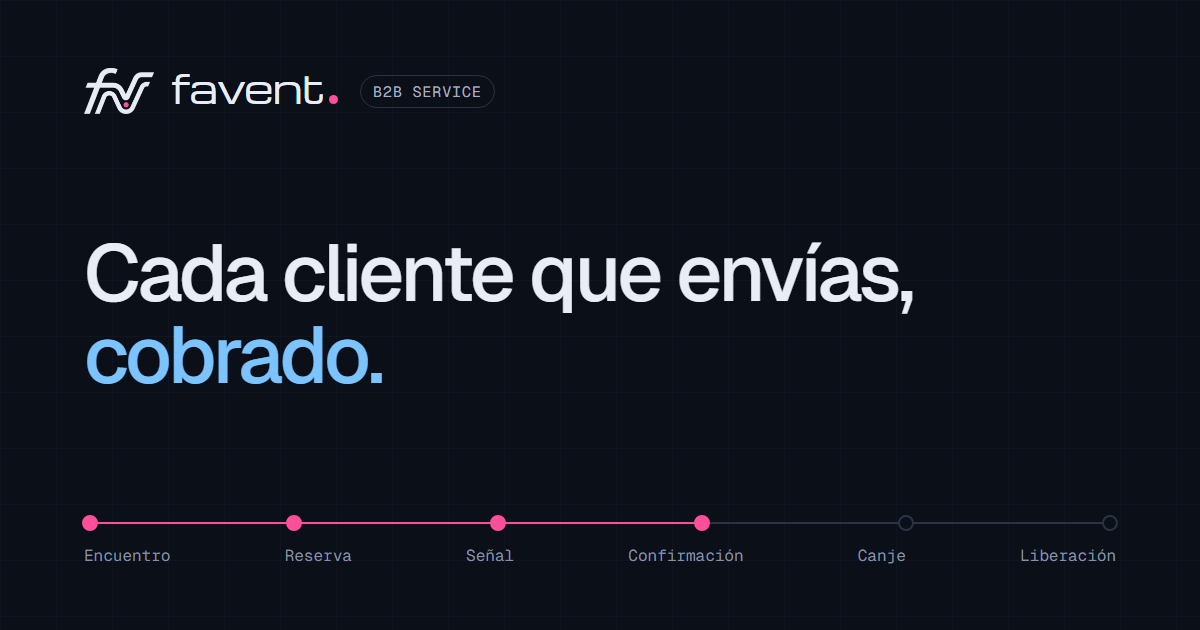
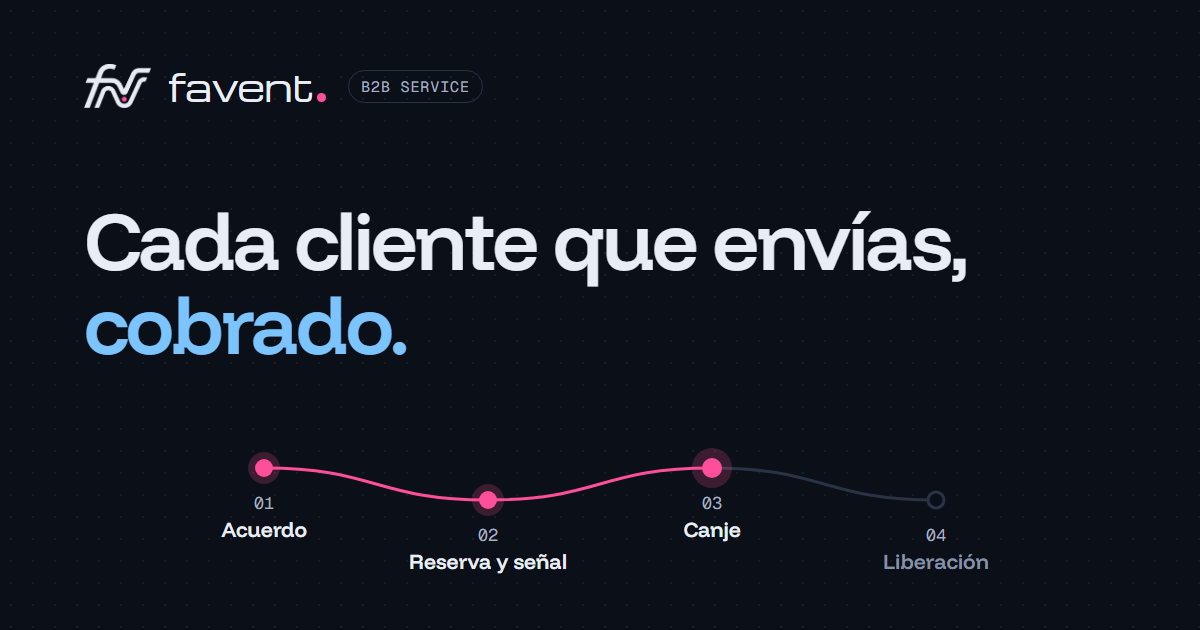
Informes con más gráficos, imagen social de 4 pasos y ajustes en móvil
- Informes (los dos perfiles): reservas por mes, estado de las reservas,
  embudo, comisión por persona y por empresa; ocupación por día,
  ingresos y comisiones, canjes y no-shows, del perfil a la reserva
- Imagen social con los 4 pasos y la curva rosa (?v=3)
- Móvil: email y «Solicitar acceso» en burbujas separadas; las cifras
  del panel caben en su recuadro
- DESIGN.md actualizado

diff --git a/index.html b/index.html
@@ -13,14 +13,14 @@
 <meta property="og:url" content="https://www.favent.app/">
 <meta property="og:title" content="Favent — Canal de ventas profesional entre empresas · Mallorca">
 <meta property="og:description" content="Cada cliente que envías, cobrado. Comisión pactada, reserva pagada por adelantado y liberación automática al prestar el servicio. Piloto abierto en Mallorca.">
-<meta property="og:image" content="https://www.favent.app/img/og-image.png?v=2">
+<meta property="og:image" content="https://www.favent.app/img/og-image.png?v=3">
 <meta property="og:image:width" content="1200">
 <meta property="og:image:height" content="630">
 <meta property="og:image:alt" content="favent · B2B SERVICE — Cada cliente que envías, cobrado.">
 <meta name="twitter:card" content="summary_large_image">
 <meta name="twitter:title" content="Favent — Canal de ventas profesional entre empresas · Mallorca">
 <meta name="twitter:description" content="Cada cliente que envías, cobrado. Comisión pactada, reserva pagada por adelantado y liberación automática al prestar el servicio.">
-<meta name="twitter:image" content="https://www.favent.app/img/og-image.png?v=2">
+<meta name="twitter:image" content="https://www.favent.app/img/og-image.png?v=3">
 <link rel="icon" type="image/png" sizes="32x32" href="img/favicon-32.png?v=2">
 <link rel="icon" type="image/png" sizes="192x192" href="img/icon-192.png?v=2">
 <link rel="apple-touch-icon" href="img/apple-touch-icon.png?v=2">
@@ -568,6 +568,42 @@ html:not(.cine) .motion-btn{display:none}
 .fx-mapbox .fx-pop .pp-d{display:none}
 @media (max-width: 860px){.fx-mapgrid{grid-template-columns:1fr}.fx-maplist{display:none}.fx-mapv{padding:12px 14px 14px}}
 @media (max-width: 520px){.fx-mapbox .pin-pop.fx-pop{width:180px !important}.fx-mapbox .fx-pop .pp-ph{height:70px}}
+/* Móvil: el campo de email y el botón van en burbujas separadas */
+@media (max-width: 640px){
+  .neu-field{padding:0;border:0;border-radius:0;background:transparent !important;box-shadow:none;gap:10px}
+  .neu-field input{border:1px solid #5A657E !important;background:var(--bg) !important;box-shadow:inset 3px 3px 8px var(--neu-lo),inset -3px -3px 8px var(--neu-hi)}
+}
+/* Móvil: las cifras del panel caben siempre en su recuadro */
+@media (max-width: 520px){
+  .fx-kpis{grid-template-columns:repeat(2,minmax(0,1fr)) !important}
+  .fx-kpi{padding:10px 12px;min-width:0}
+  .fx-kpi b{font-size:15px;overflow-wrap:anywhere}
+}
+/* Informes: más gráficos */
+.fx-rep2{display:grid;grid-template-columns:repeat(3,minmax(0,1fr));gap:12px;padding:0 18px 12px}
+.fx-rep3{display:grid;grid-template-columns:repeat(2,minmax(0,1fr));gap:12px;padding:0 18px 18px}
+.rep-line{width:100%;height:auto;display:block}
+.rep-axis{display:flex;justify-content:space-between;font:11px 'Geist Mono',monospace;color:#656B71}
+.rep-donut{display:flex;align-items:center;gap:14px}
+.rep-donut svg{width:108px;height:108px;flex-shrink:0}
+.rep-dc{font:600 17px 'Funnel Display',sans-serif;fill:#1E2226}
+.rep-ds{font:500 9px 'Geist Mono',monospace;fill:#656B71}
+.rep-donut ul{list-style:none;margin:0;padding:0;display:flex;flex-direction:column;gap:6px;font-size:12px;min-width:0;flex:1}
+.rep-donut li{display:flex;align-items:center;gap:7px}
+.rep-donut li i{width:9px;height:9px;border-radius:3px;flex-shrink:0}
+.rep-donut li b{margin-left:auto;padding-left:6px;flex-shrink:0;white-space:nowrap;font:500 11px 'Geist Mono',monospace}
+.rep-funnel{display:flex;flex-direction:column;gap:9px}
+.rep-funnel div{display:grid;grid-template-columns:112px minmax(0,1fr) 46px;gap:8px;align-items:center;font-size:12px}
+.rep-funnel s{display:block;height:14px;border-radius:5px;background:#F0F1ED;overflow:hidden;text-decoration:none}
+.rep-funnel s i{display:block;height:100%;border-radius:5px;transition:width .6s cubic-bezier(.2,.7,.2,1)}
+.rep-funnel em{font:500 11px 'Geist Mono',monospace;font-style:normal;text-align:right}
+.rep-cols{display:flex;align-items:flex-end;gap:8px;height:132px}
+.rep-cols div{flex:1;min-width:0;height:100%;display:flex;flex-direction:column;justify-content:flex-end;align-items:center;gap:4px}
+.rep-cols i{display:block;width:100%;max-width:26px;border-radius:6px 6px 3px 3px;background:#2B6CA8;transition:height .45s cubic-bezier(.2,.7,.2,1)}
+.rep-cols em{font:500 10px 'Geist Mono',monospace;font-style:normal;color:#656B71}
+.rep-cols span{font:500 11px 'Geist Mono',monospace;color:#50565C}
+@media (max-width: 860px){.fx-rep2,.fx-rep3{grid-template-columns:1fr;padding:0 14px 12px}}
+@media (max-width: 520px){.rep-funnel div,.fx-rep3 .fx-hb div{grid-template-columns:92px minmax(0,1fr) 66px !important}}
 /* ===== Entrada del inicio ===== */
 .cine .intro > *{animation:rise 800ms var(--ease-out) both;animation-delay:calc(var(--i, 0) * 70ms + 120ms)}
 .cine .intro > h1{animation:none}
@@ -1113,6 +1149,24 @@ body::after{content:"";position:fixed;inset:0;z-index:95;pointer-events:none;opa
     'Tú': 'You',
     'Proponer acuerdo': 'Propose agreement',
     'Así se mueve una reserva.': 'How a booking moves.',
+    'Comisiones': 'Commissions',
+    'Reservas por mes': 'Bookings per month',
+    'Estado de las reservas': 'Booking status',
+    'Embudo de reserva': 'Booking funnel',
+    'Enlaces enviados': 'Links sent',
+    'Pagadas': 'Paid',
+    'Canjeadas': 'Redeemed',
+    'Liberadas': 'Released',
+    'Comisión por persona': 'Commission per person',
+    'Comisión por empresa': 'Commission per business',
+    'Ocupación por día': 'Occupancy by day',
+    'Ingresos y comisiones': 'Revenue and commissions',
+    'ventas': 'sales',
+    'Canjes y no-shows': 'Redemptions and no-shows',
+    'Canceladas': 'Cancelled',
+    'No-shows': 'No-shows',
+    'canjeadas': 'redeemed',
+    'Del perfil a la reserva': 'From profile to booking',
     'Ajustes': 'Settings',
     'Cuenta': 'Account',
     'Tu resumen: comisiones y últimas reservas.': 'Your overview: commissions and latest bookings.',
@@ -1864,6 +1918,47 @@ body::after{content:"";position:fixed;inset:0;z-index:95;pointer-events:none;opa
     }).join('');
     return '<div class="fx-bar"><span class="fx-title">' + T('Acuerdos') + '</span><span style="font-size: 13px; color: #656B71">' + FXA.length + ' ' + (S.lang === 'en' ? 'partners' : 'socios') + '</span></div>' + head + rows;
   }
+  // Gráficos de los informes (datos de ejemplo): línea, dónut, embudo y barras
+  function repLine(vals, start) {
+    var W = 300, H = 120, P = 8, max = Math.max.apply(null, vals), n = vals.length;
+    var pts = vals.map(function (v, i) { return [P + i * (W - 2 * P) / Math.max(1, n - 1), H - P - (v / max) * (H - 2 * P - 10)]; });
+    var line = pts.map(function (q, i) { return (i ? 'L' : 'M') + q[0].toFixed(1) + ' ' + q[1].toFixed(1); }).join(' ');
+    var area = line + ' L' + pts[n - 1][0].toFixed(1) + ' ' + (H - P) + ' L' + pts[0][0].toFixed(1) + ' ' + (H - P) + ' Z';
+    var last = pts[n - 1];
+    return '<svg class="rep-line" viewBox="0 0 ' + W + ' ' + H + '" role="img" aria-label="' + vals.join(', ') + '"><path d="' + area + '" fill="#EAF2F8"></path><path d="' + line + '" fill="none" stroke="#2B6CA8" stroke-width="2.2" stroke-linejoin="round"></path>'
+      + '<circle cx="' + last[0].toFixed(1) + '" cy="' + last[1].toFixed(1) + '" r="4" fill="#2B6CA8"></circle></svg>'
+      + '<div class="rep-axis"><span>' + fxMon(start) + '</span><span>' + fxMon(start + n - 1) + '</span></div>';
+  }
+  function repDonut(segs, center, sub) {
+    var tot = segs.reduce(function (a, s) { return a + s[1]; }, 0), C = 2 * Math.PI * 38, acc = 0, en = S.lang === 'en';
+    var arcs = segs.map(function (s) {
+      var len = s[1] / tot * C, o = '<circle r="38" cx="50" cy="50" fill="none" stroke="' + s[2] + '" stroke-width="14" stroke-dasharray="' + len.toFixed(2) + ' ' + (C - len).toFixed(2) + '" stroke-dashoffset="' + (-acc).toFixed(2) + '" transform="rotate(-90 50 50)"></circle>';
+      acc += len; return o;
+    }).join('');
+    var leg = segs.map(function (s) { return '<li><i style="background: ' + s[2] + '"></i>' + s[0] + '<b>' + Math.round(s[1] / tot * 100) + (en ? '%' : ' %') + '</b></li>'; }).join('');
+    return '<div class="rep-donut"><svg viewBox="0 0 100 100" aria-hidden="true">' + arcs + '<text x="50" y="49" text-anchor="middle" class="rep-dc">' + center + '</text><text x="50" y="62" text-anchor="middle" class="rep-ds">' + sub + '</text></svg><ul>' + leg + '</ul></div>';
+  }
+  function repFunnel(steps) {
+    var top = steps[0][1];
+    return '<div class="rep-funnel">' + steps.map(function (s, i) {
+      var w = Math.round(s[1] / top * 100);
+      return '<div><span>' + s[0] + '</span><s><i data-w="' + w + '" style="width: ' + (FX.grow ? 0 : w) + '%; background: ' + ['#0B2A4A', '#2B6CA8', '#5B93C7', '#A9D3F0'][i % 4] + '"></i></s><em>' + fpNum(s[1]) + '</em></div>';
+    }).join('') + '</div>';
+  }
+  function repBars(rows, fmt) {
+    var max = Math.max.apply(null, rows.map(function (r) { return r[1]; }));
+    return '<div class="fx-hb">' + rows.map(function (r) {
+      var w = Math.round(r[1] / max * 100);
+      return '<div style="grid-template-columns: 112px minmax(0,1fr) 74px"><span class="fx-cell">' + r[0] + '</span><s><i data-w="' + w + '" style="width: ' + (FX.grow ? 0 : w) + '%; transition: width .6s cubic-bezier(.2,.7,.2,1)"></i></s><em>' + fmt(r[1]) + '</em></div>';
+    }).join('') + '</div>';
+  }
+  function repCols(vals, labels) {
+    var max = Math.max.apply(null, vals), en = S.lang === 'en';
+    return '<div class="rep-cols">' + vals.map(function (v, i) {
+      var h = Math.round(v / max * 100);
+      return '<div><em>' + v + (en ? '%' : '') + '</em><i data-h="' + h + '" style="height: ' + (FX.grow ? 0 : h) + '%"></i><span>' + labels[i] + '</span></div>';
+    }).join('') + '</div>';
+  }
   function fxRep() {
     var n = FX.range, v = FXM.v.slice(-n), c = FXM.n.slice(-n), off = 12 - n;
     var sum = v.reduce(function (a, b) { return a + b; }, 0), bk = c.reduce(function (a, b) { return a + b; }, 0), max = Math.max.apply(null, v);
@@ -1883,7 +1978,25 @@ body::after{content:"";position:fixed;inset:0;z-index:95;pointer-events:none;opa
     return '<div class="fx-bar"><span class="fx-title">' + T('Informes') + '</span><div class="fx-chips">' + ranges + '</div></div>'
       + '<div class="fx-kpis">' + kpis + '</div>'
       + '<div class="fx-rep"><div class="fx-card"><h4>' + T('Comisión por mes') + '</h4><div class="fx-chart">' + bars + '</div><span class="fx-cap">' + cap + '</span></div>'
-      + '<div class="fx-card"><h4>' + T('Por categoría') + '</h4><div class="fx-hb">' + hb + '</div></div></div>';
+      + '<div class="fx-card"><h4>' + T('Por categoría') + '</h4><div class="fx-hb">' + hb + '</div></div></div>'
+      + fxRepMore(n, off);
+  }
+  function fxRepMore(n, off) {
+    var st = { pend: 0, held: 0, redeemed: 0, released: 0 };
+    FXB.forEach(function (b) { if (st[b.st] != null) st[b.st]++; });
+    var donut = repDonut([[T('Pendiente'), st.pend, '#D5D7D3'], [T(FXST.held.l), st.held, '#A9D3F0'], [T(FXST.redeemed.l), st.redeemed, '#2B6CA8'], [T(FXST.released.l), st.released, '#0B2A4A']], String(FXB.length), T('Reservas').toLowerCase());
+    var last = FXM.n[11];
+    var funnel = repFunnel([[T('Enlaces enviados'), Math.round(last * 1.31)], [T('Pagadas'), last], [T('Canjeadas'), last - 2], [T('Liberadas'), last - 4]]);
+    var byEmp = {};
+    FXB.forEach(function (b) { byEmp[b.emp] = (byEmp[b.emp] || 0) + b.com; });
+    var emp = Object.keys(byEmp).map(function (k) { return [k, byEmp[k]]; }).sort(function (a, b) { return b[1] - a[1]; }).slice(0, 5);
+    return '<div class="fx-rep2">'
+      + '<div class="fx-card"><h4>' + T('Reservas por mes') + '</h4>' + repLine(FXM.n.slice(-n), FXM.start + off) + '</div>'
+      + '<div class="fx-card"><h4>' + T('Estado de las reservas') + '</h4>' + donut + '</div>'
+      + '<div class="fx-card"><h4>' + T('Embudo de reserva') + '</h4>' + funnel + '</div></div>'
+      + '<div class="fx-rep3">'
+      + '<div class="fx-card"><h4>' + T('Comisión por persona') + '</h4>' + repBars(TEAM.map(function (t) { return [t.name, t.c]; }), money) + '</div>'
+      + '<div class="fx-card"><h4>' + T('Comisión por empresa') + '</h4>' + repBars(emp, money) + '</div></div>';
   }
   var FXCH = {
     fp: { name: 'Finques del Pla', cat: 'Eventos', msgs: [
@@ -2189,8 +2302,21 @@ body::after{content:"";position:fixed;inset:0;z-index:95;pointer-events:none;opa
     return '<div class="fx-bar"><span class="fx-title">' + T('Informes') + '</span><div class="fx-chips">' + ranges + '</div></div>'
       + '<div class="fx-kpis">' + kpis + '</div>'
       + '<div class="fx-rep"><div class="fx-card"><h4>' + T('Ventas por mes') + '</h4><div class="fx-chart">' + bars + '</div><span class="fx-cap">' + cap + '</span></div>'
-      + '<div class="fx-card"><h4>' + T('Por socio') + '</h4><div class="fx-hb">' + hb + '</div></div></div>';
+      + '<div class="fx-card"><h4>' + T('Por socio') + '</h4><div class="fx-hb">' + hb + '</div></div></div>'
+      + fpRepMore(n, off, sum);
   }
+  function fpRepMore(n, off, sum) {
+    var en = S.lang === 'en', bk = FPM.n.slice(-n).reduce(function (a, b) { return a + b; }, 0);
+    var money2 = donutMoney(sum);
+    return '<div class="fx-rep2">'
+      + '<div class="fx-card"><h4>' + T('Reservas por mes') + '</h4>' + repLine(FPM.n.slice(-n), FPM.start + off) + '</div>'
+      + '<div class="fx-card"><h4>' + T('Ocupación por día') + '</h4>' + repCols([52, 48, 61, 70, 88, 97, 92], fpDayL()) + '</div>'
+      + '<div class="fx-card"><h4>' + T('Ingresos y comisiones') + '</h4>' + repDonut([[T('Ingresos netos'), 88, '#2B6CA8'], [T('Comisiones'), 12, '#FF4F9A']], money2, T('ventas')) + '</div></div>'
+      + '<div class="fx-rep3">'
+      + '<div class="fx-card"><h4>' + T('Canjes y no-shows') + '</h4>' + repDonut([[T('Canjeadas'), 94, '#2B6CA8'], [T('Canceladas'), 4, '#A9D3F0'], [T('No-shows'), 2, '#FF4F9A']], en ? '94%' : '94 %', T('canjeadas').toLowerCase()) + '</div>'
+      + '<div class="fx-card"><h4>' + T('Del perfil a la reserva') + '</h4>' + repFunnel([[T('Visitas al perfil'), 1284], [T('Clics en tus servicios'), 642], [T('Reservas'), bk]]) + '</div></div>';
+  }
+  function donutMoney(v) { return v >= 1000 ? (S.lang === 'en' ? '€' + (v / 1000).toFixed(1) + 'k' : (v / 1000).toFixed(1).replace('.', ',') + ' k€') : money(v); }
   function fpDrawer(o) {
     var en = S.lang === 'en';
     var x = '<button type="button" class="fx-x" data-act="fxclose" aria-label="' + T('Cerrar') + '"><svg width="14" height="14" viewBox="0 0 24 24" aria-hidden="true"><path d="M6 6l12 12M18 6L6 18" fill="none" stroke="currentColor" stroke-width="2.2" stroke-linecap="round"></path></svg></button>';

diff --git a/DESIGN.md b/DESIGN.md
@@ -375,7 +375,7 @@ Todos los botones: verbo al principio, 1–3 palabras, `transform: scale(.97)` a
 - **Iconos** (`img/icon-192.png`, `img/icon-512.png`, `img/apple-touch-icon.png`): el monograma «fv» en negativo al 70 % del ancho sobre `{colors.canvas}`; esquinas redondeadas y transparencia, salvo el de Apple, que es cuadrado y opaco.
 - **Favicon** (`img/favicon-32.png` y `favicon.ico` con 16, 32 y 48 px): el monograma al 90 % del ancho con el punto rosa agrandado para que se vea en la pestaña.
 - Los enlaces a iconos e imagen social llevan `?v=N` para que navegadores y redes descarguen la versión nueva; súbelo cada vez que cambien los archivos.
-- **Imagen social** (`img/og-image.png`): monograma, palabra, «B2B SERVICE», el titular y la línea de recorrido sobre el lienzo oscuro. (Si se rehace, usar la curva suave del recorrido.)
+- **Imagen social** (`img/og-image.png`): monograma, palabra, «B2B SERVICE», el titular y los 4 pasos del recorrido unidos por la curva rosa, sobre el lienzo oscuro (Funnel Display).
 
 ### Navigation
 - Barra superior en `{colors.canvas-deep}` con un enlace a «Solicita acceso».
@@ -392,7 +392,7 @@ Etiqueta de sección en `{typography.eyebrow}` con un cuadrado rosa de 7 px dela
 - **`screen-panel`**: contenedor claro de las interfaces de ejemplo, con la etiqueta «Vista de ejemplo».
 
 ### Inputs & Forms
-- **`neu-field`**: el formulario del inicio es una cápsula hundida con borde `{colors.field-border}`; el campo va transparente dentro y el botón, a la derecha (debajo en móvil).
+- **`neu-field`**: el formulario del inicio es una cápsula hundida con borde `{colors.field-border}`; el campo va transparente dentro y el botón, a la derecha (debajo en móvil). En móvil (≤ 640 px) el campo y el botón van separados: el campo es su propia cápsula hundida y el botón queda debajo.
 - El formulario del bloque final vive en una pantalla clara: campo blanco y botón grafito.
 - Error en `{colors.semantic-error}` (o `semantic-error-on-screen` dentro de pantallas), con `role="alert"`.
 - Nota de privacidad bajo cada formulario en `{typography.caption}`.
